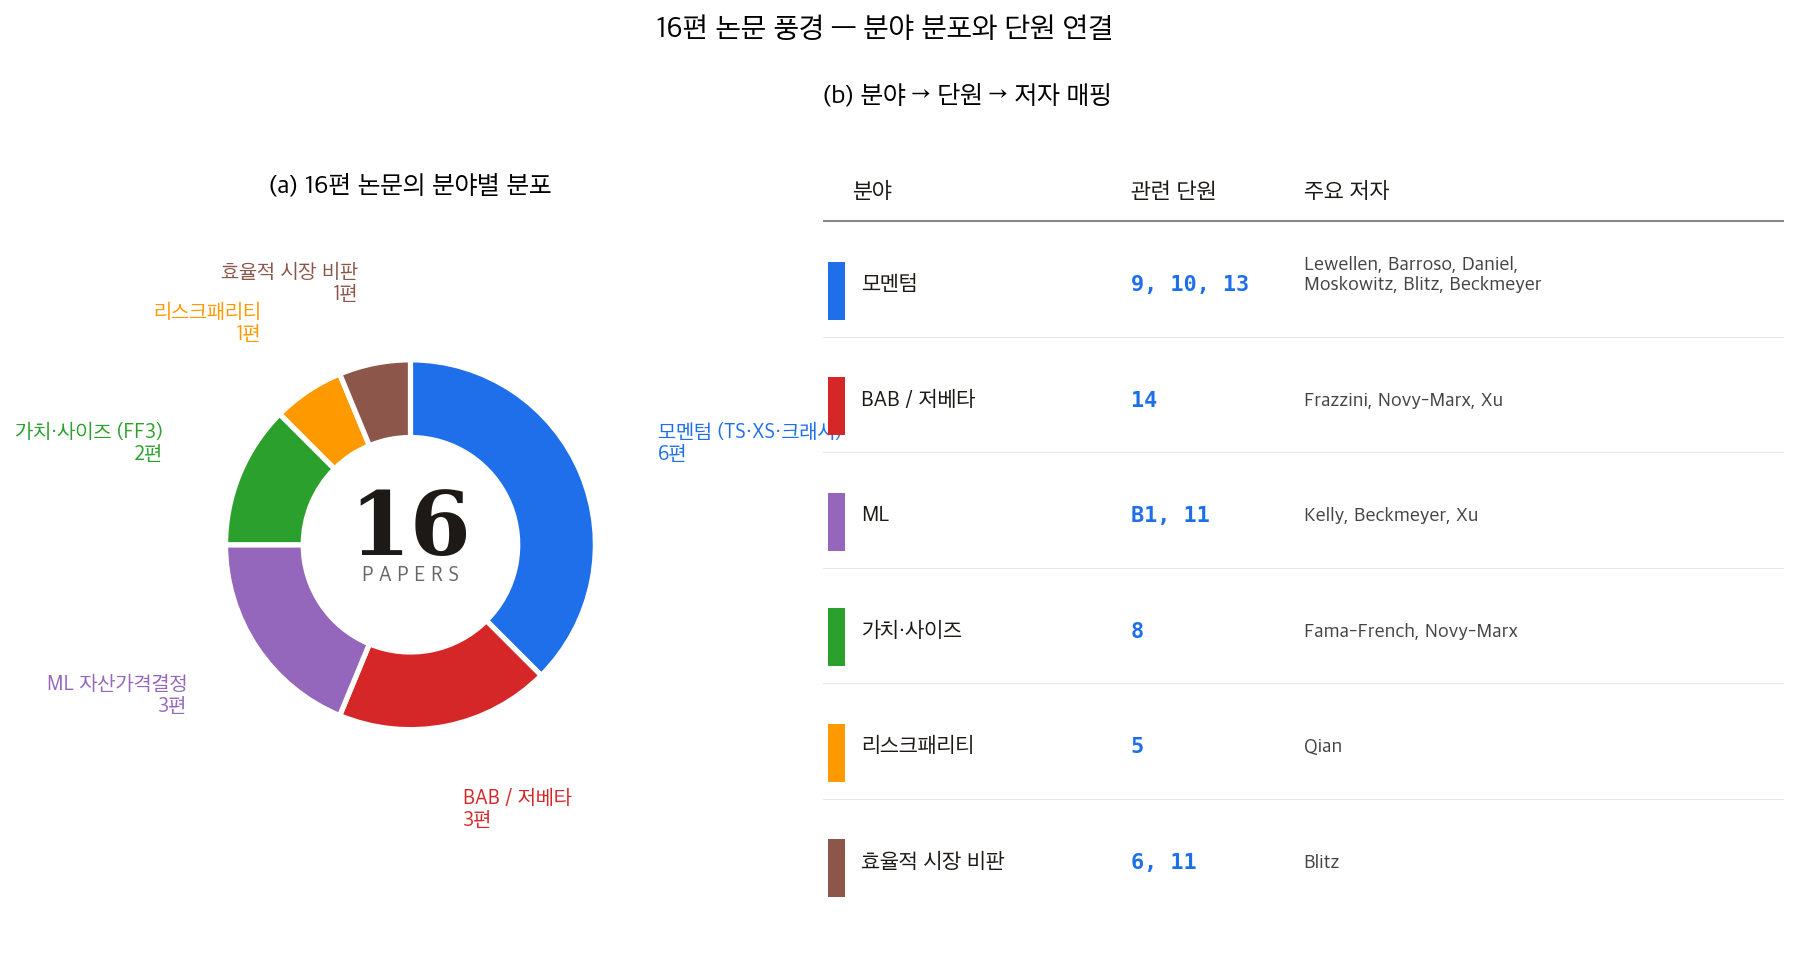
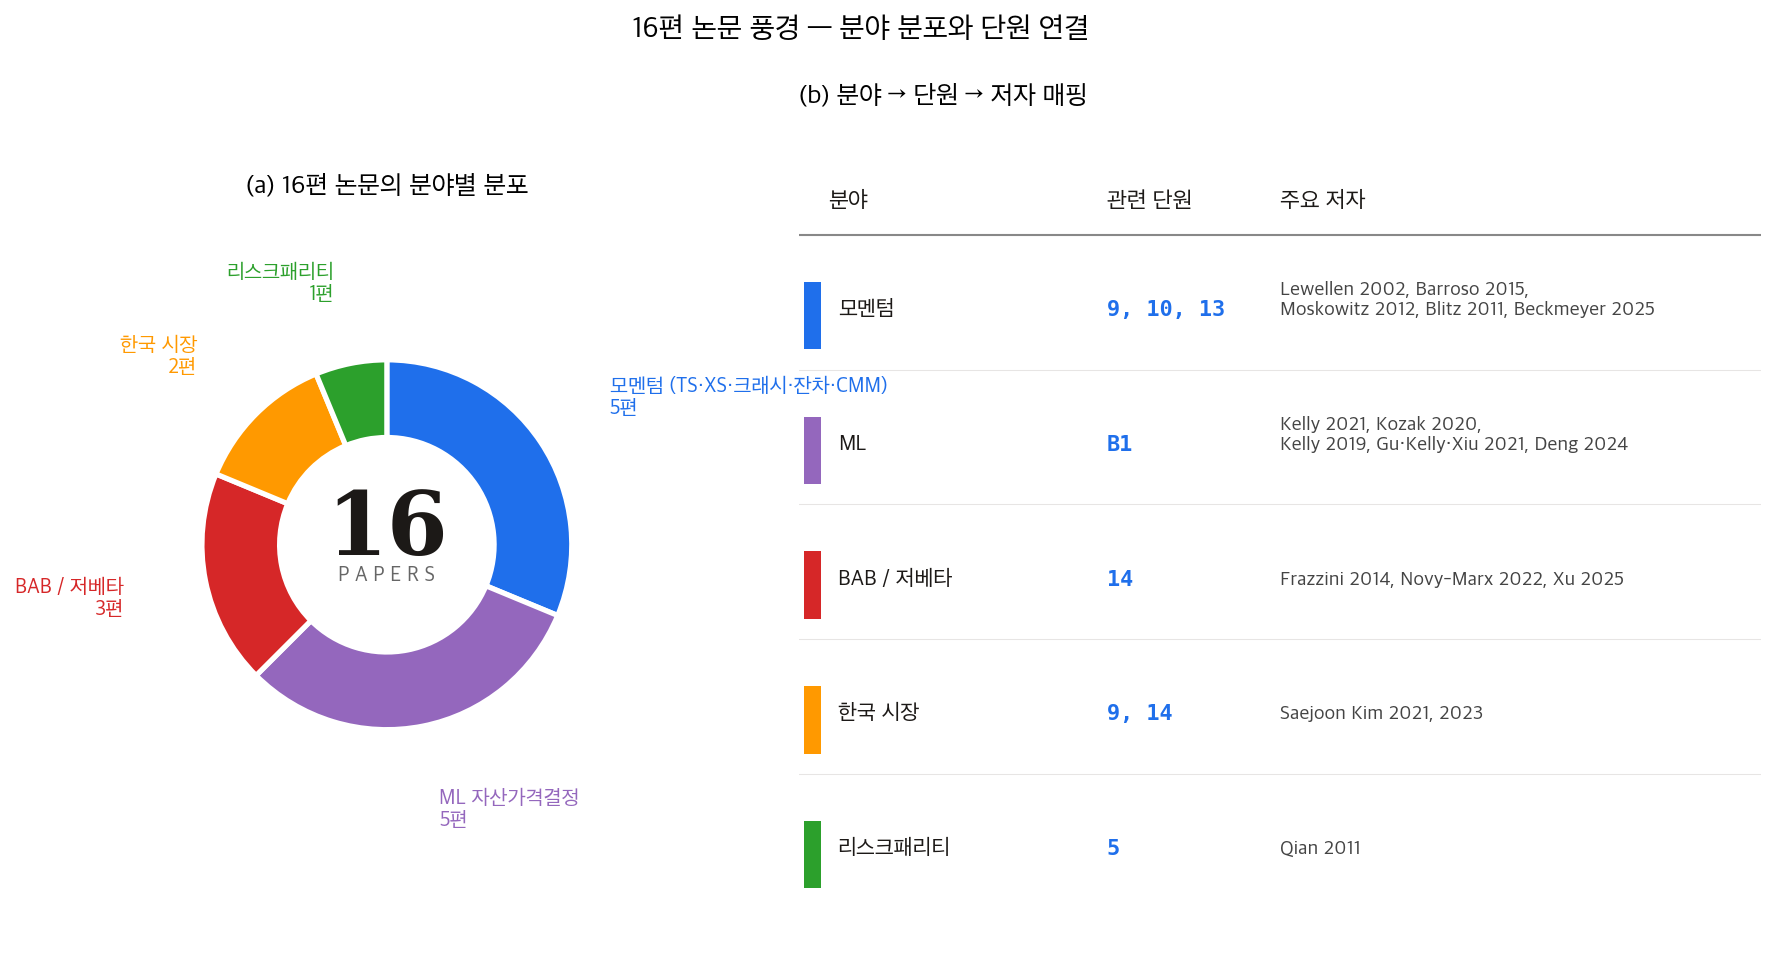
fix: ch11 16편 논문 분류 정확화 — 셀프 리뷰 fact-check
이전 분류가 11단원 본문 16편과 불일치:
- '가치·사이즈 (FF3)' 카테고리 → 11단원에 Fama-French 없음 (8단원에서 다룸)
- '효율적 시장 비판' → Blitz는 잔차 모멘텀이 더 정확
- 'Daniel' 저자 → 11단원에 Daniel & Moskowitz 2016 없음
- 'Saejoon Kim 2021/2023' (한국 시장 2편) 누락
- ML 5편(Kelly 2021/2019, Kozak, Gu·Kelly·Xiu, Deng) → 도식엔 3편

정확한 11단원 16편 기준 재분류:
- 모멘텀 5편 (Lewellen, Barroso, Moskowitz, Blitz, Beckmeyer) → 9·10·13단원
- ML 자산가격결정 5편 (Kelly 2021, Kozak, Kelly 2019, Gu·Kelly·Xiu, Deng) → B1단원
- BAB / 저베타 3편 (Frazzini, Novy-Marx, Xu) → 14단원
- 한국 시장 2편 (Saejoon Kim ×2) → 9·14단원
- 리스크패리티 1편 (Qian) → 5단원

diff --git a/scripts/ch11_paper_landscape.py b/scripts/ch11_paper_landscape.py
@@ -7,24 +7,27 @@ import sys, os
 sys.path.insert(0, os.path.dirname(__file__))
 from _setup import plt, np, save
 
-# 카테고리별 논문 수 + 색
+# 카테고리별 논문 수 + 색 (실제 11단원 16편 기준 정확 분류)
 categories = [
-    ("모멘텀 (TS·XS·크래시)", 6, "#1f6feb"),
-    ("BAB / 저베타",           3, "#d62728"),
-    ("ML 자산가격결정",        3, "#9467bd"),
-    ("가치·사이즈 (FF3)",      2, "#2ca02c"),
-    ("리스크패리티",           1, "#ff9900"),
-    ("효율적 시장 비판",        1, "#8c564b"),
+    ("모멘텀 (TS·XS·크래시·잔차·CMM)", 5, "#1f6feb"),
+    ("ML 자산가격결정",              5, "#9467bd"),
+    ("BAB / 저베타",                  3, "#d62728"),
+    ("한국 시장",                     2, "#ff9900"),
+    ("리스크패리티",                  1, "#2ca02c"),
 ]
 
-# 분야 → 단원 매핑
+# 분야 → 단원 매핑 (정확)
 mapping = [
-    ("모멘텀",         "9, 10, 13",   "Lewellen, Barroso, Daniel,\nMoskowitz, Blitz, Beckmeyer"),
-    ("BAB / 저베타",   "14",           "Frazzini, Novy-Marx, Xu"),
-    ("ML",             "B1, 11",       "Kelly, Beckmeyer, Xu"),
-    ("가치·사이즈",    "8",             "Fama-French, Novy-Marx"),
-    ("리스크패리티",    "5",             "Qian"),
-    ("효율적 시장 비판","6, 11",         "Blitz"),
+    ("모멘텀",      "9, 10, 13",
+     "Lewellen 2002, Barroso 2015,\nMoskowitz 2012, Blitz 2011, Beckmeyer 2025"),
+    ("ML",          "B1",
+     "Kelly 2021, Kozak 2020,\nKelly 2019, Gu·Kelly·Xiu 2021, Deng 2024"),
+    ("BAB / 저베타","14",
+     "Frazzini 2014, Novy-Marx 2022, Xu 2025"),
+    ("한국 시장",    "9, 14",
+     "Saejoon Kim 2021, 2023"),
+    ("리스크패리티", "5",
+     "Qian 2011"),
 ]
 
 fig, axes = plt.subplots(1, 2, figsize=(15, 7),
